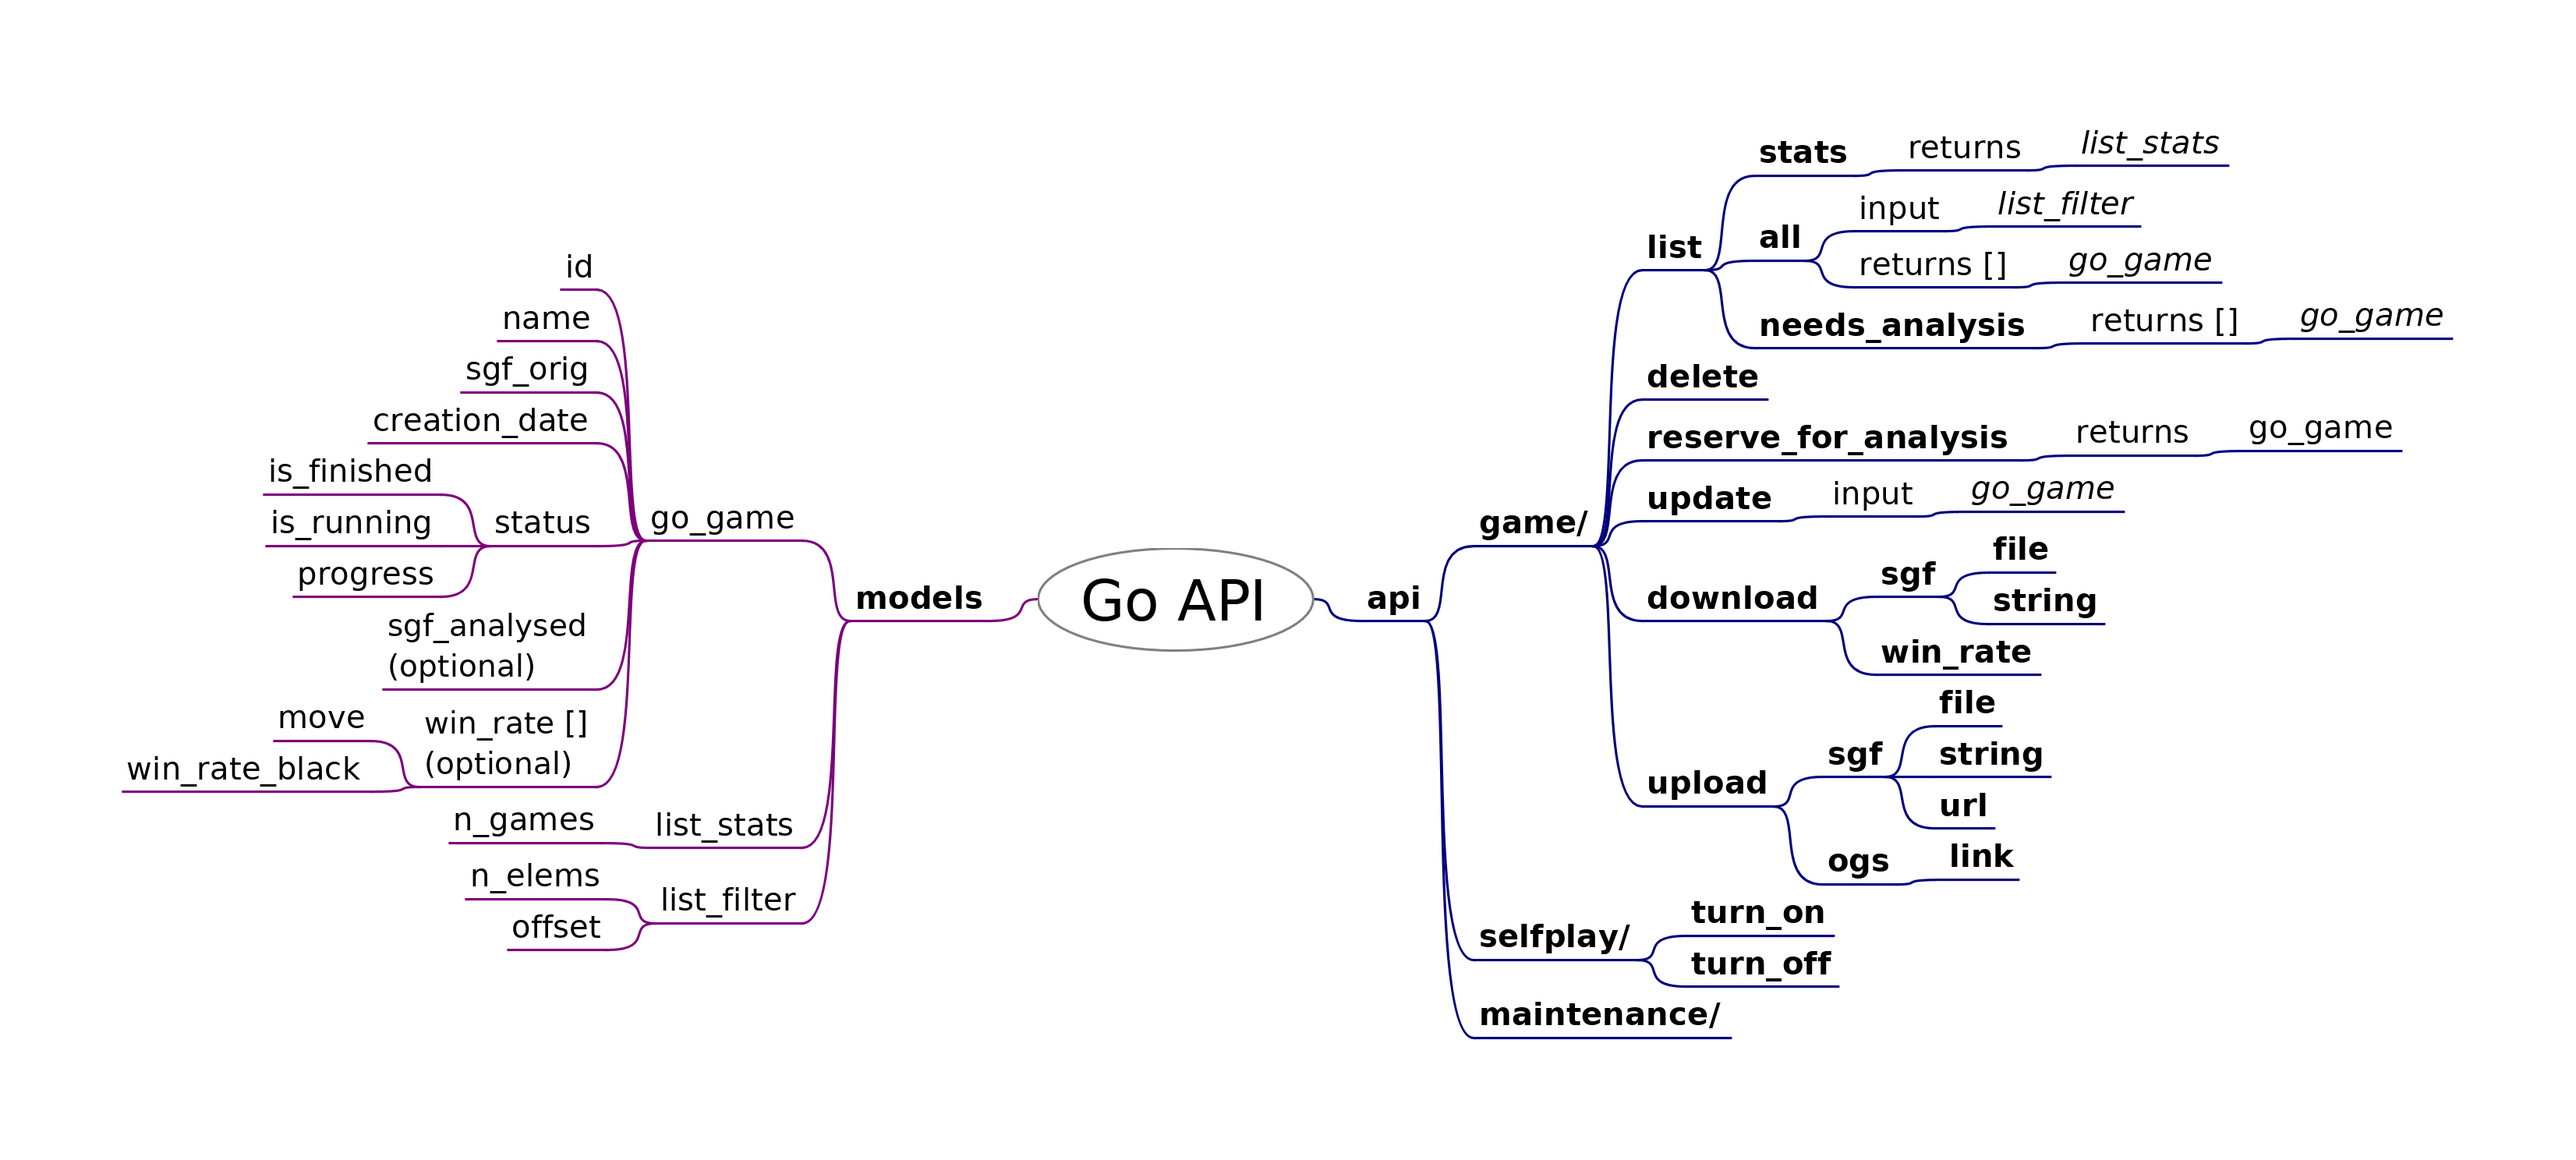
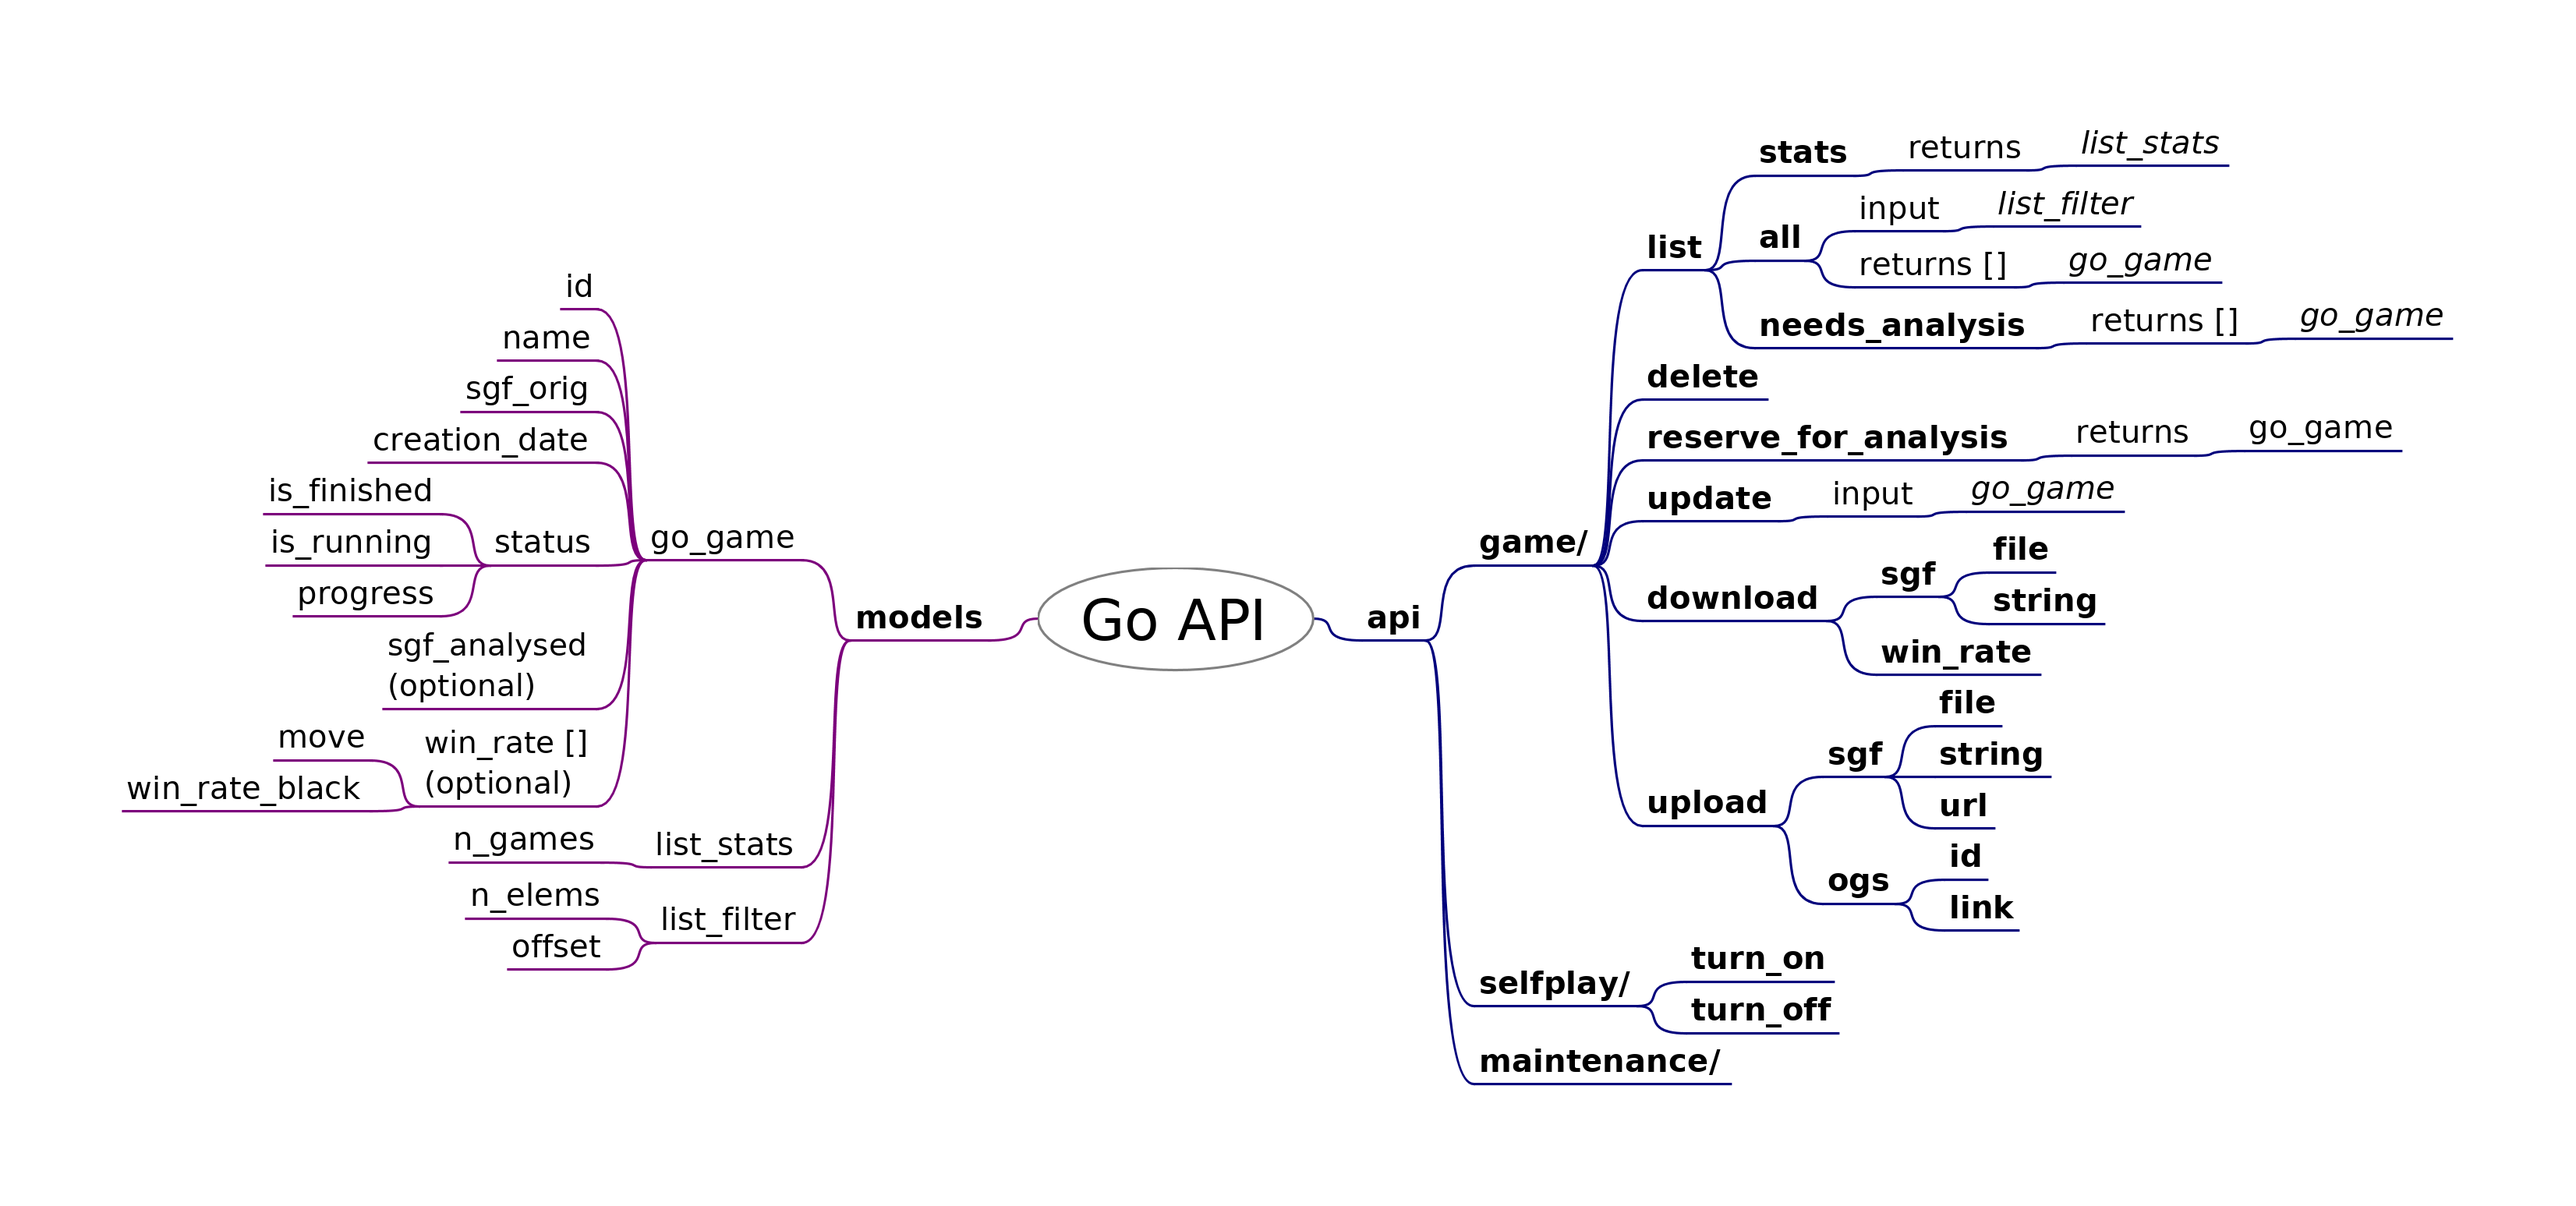
allow to upload an OGS game by its ID; unified the sgf DB insertion

diff --git a/lz_api/src/apis/game.py b/lz_api/src/apis/game.py
@@ -6,6 +6,7 @@ game/ entry point.
 import uuid
 import datetime
 
+import requests
 from flask_restplus import Resource, fields, Namespace
 from sgfmill import sgf
 
@@ -47,6 +48,12 @@ sgf_string_model = api.model('SgfString', model={
                                 example='(;GM[1]FF[4]AP[qGo:2.1.0]ST[1] SZ[19]HA[0]KM[5.5]PW[White]PB[Black] ;B[pd];W[dp];B[qp];W[dd];B[nq])'),
 })
 
+ogs_game_id_model = api.model('OnlineGoGame', model={
+    'ogs_game_id': fields.String(required=True,
+                                 description='OGS game number.',
+                                 example='17049439'),
+})
+
 game_model = api.model('Game', model={
     'game_id': game_id_model['game_id'],
     'name': fields.String(required=True,
@@ -64,6 +71,62 @@ game_model = api.model('Game', model={
                             required=False,
                             description='Estimated win rate (black) for each move.'),
 })
+
+
+def _add_sgf_game_to_db(sgf_raw, is_bytes, name):
+    """
+    Append a raw SGF to the database (incl. some validation checks).
+
+    Parameters
+    ----------
+    sgf_raw : bytes or str
+        Raw SGF game.
+    is_bytes : boolean
+        Is the raw SGF in bytes?
+    name : str
+        Title of the game.
+
+    Returns
+    -------
+    game_id : str
+        Generated game ID.
+    status_code : int
+        200: success.
+        400: invalid SGF.
+    """
+    game_id = uuid.uuid4().hex
+
+    # check sgf input
+    try:
+        if is_bytes:
+            sgf_game = sgf.Sgf_game.from_bytes(sgf_raw)
+        else:
+            sgf_game = sgf.Sgf_game.from_string(sgf_raw)
+    except ValueError:
+        return 'No valid SGF format.', 400
+
+    if sgf_game.get_size() != 19:
+        return 'Board size must be 19x19, not %dx%d' % (sgf_game.get_size(), sgf_game.get_size()), 400
+
+    game = {
+        '_id': game_id,
+        'name': name,
+        'sgf_orig': sgf_game.serialise().decode('utf-8'),
+        'creation_date': datetime.datetime.now(),
+        'status': {
+            'is_finished': False,
+            'is_running': False,
+            'progress': 0.,
+        },
+        'sgf_analyzed': None,
+        'win_rate': None,
+    }
+
+    # insert game into the db
+    _, coll = db_conn.get_database_connection()
+    coll.insert_one(game)
+
+    return game_id, 200
 
 
 @api.route('/is_alive')
@@ -176,33 +239,26 @@ class UploadSgfString(Resource):
         """
         Upload a SGF by raw string.
         """
-        game_id = uuid.uuid4().hex
+        game_id, return_code = _add_sgf_game_to_db(api.payload['sgf_string'], False, 'Raw SGF upload')
 
-        # check sgf input
-        try:
-            sgf_game = sgf.Sgf_game.from_string(api.payload['sgf_string'])
-        except ValueError:
-            return 'No valid SGF format.', 400
+        return {'game_id': game_id}, return_code
 
-        if sgf_game.get_size() != 19:
-            return 'Board size must be 19x19, not %dx%d' % (sgf_game.get_size(), sgf_game.get_size()), 400
 
-        game = {
-            '_id': game_id,
-            'name': 'Raw SGF upload',
-            'sgf_orig': sgf_game.serialise().decode('utf-8'),
-            'creation_date': datetime.datetime.now(),
-            'status': {
-                'is_finished': False,
-                'is_running': False,
-                'progress': 0.,
-            },
-            'sgf_analyzed': None,
-            'win_rate': None,
-        }
+@api.route('/upload/ogs/id')
+class UploadOgsId(Resource):
+    @api.expect(ogs_game_id_model)
+    @api.marshal_with(game_id_model)
+    @api.response(400, 'No valid SGF format.')
+    def post(self):
+        """
+        Upload a SGF by online-go (OGS) game number.
+        """
+        # fetch SGF via the OGS API
+        r = requests.get('https://online-go.com/api/v1/games/%s/sgf' % api.payload['ogs_game_id'])
+        if r.status_code != 200:
+            return 'Unable to load the OGS game.', 400
+        raw_sgf_bytes = r.content
 
-        # insert game into the db
-        _, coll = db_conn.get_database_connection()
-        coll.insert_one(game)
+        game_id, return_code = _add_sgf_game_to_db(raw_sgf_bytes, True, 'OGS Game %s' % api.payload['ogs_game_id'])
 
-        return {'game_id': game_id}, 200
+        return {'game_id': game_id}, return_code

diff --git a/lz_api/doc/Go_API.mm b/lz_api/doc/Go_API.mm
@@ -150,6 +150,9 @@
 </node>
 <node TEXT="ogs" ID="ID_1282616712" CREATED="1557085082272" MODIFIED="1557170868702">
 <font BOLD="true"/>
+<node TEXT="id" ID="ID_1152392730" CREATED="1557868040567" MODIFIED="1557868043375">
+<font BOLD="true"/>
+</node>
 <node TEXT="link" ID="ID_991235352" CREATED="1557168270899" MODIFIED="1557170868702">
 <font BOLD="true"/>
 </node>
